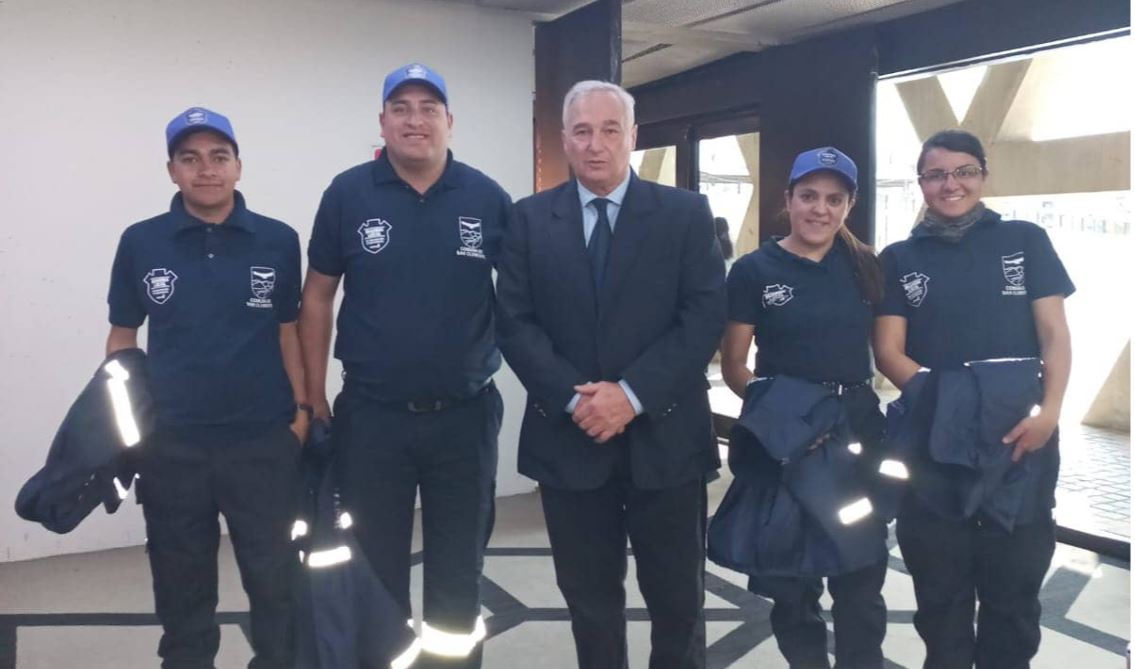
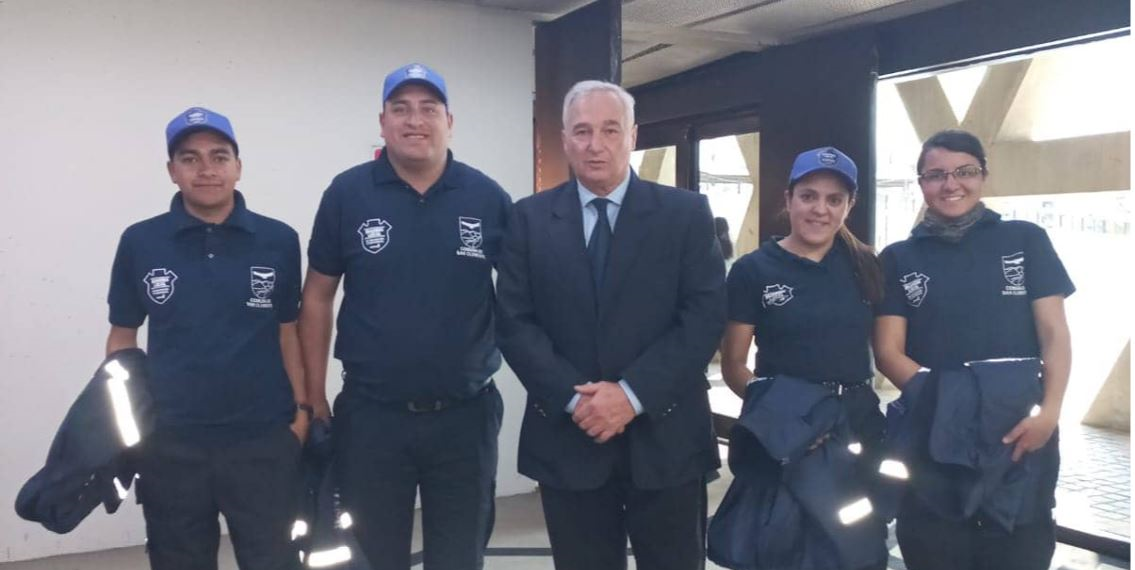
iconografia

diff --git a/front/src/app/components/home/home.html b/front/src/app/components/home/home.html
@@ -1,8 +1,31 @@
 <div class="text-center mt-8">
-  <h1 class="text-3xl font-bold mb-4">Bienvenido a nuestra tienda</h1>
+  <h1 class="text-cyan-600 text-4xl font-bold mb-4">Bienvenido a <span class="text-cyan-800 font-extrabold">LIQUIDADORA RGW</span></h1>
 
-  <p class="text-lg">Explora nuestros productos y encuentra lo que necesitas.</p>
+  <p class="text-lg mb-4">Explora nuestros productos y encuentra lo mejor en <span class="text-cyan-600 font-bold">indumentaria laboral y de seguridad.</span></p>
 
-  <app-carousel [slides]="slides"></app-carousel>
+  <div class="bg-sky-100 py-1 mt-8"> 
+    <app-carousel [slides]="slides"></app-carousel>
+  </div>
+
+  <div class="flex justify-evenly mt-10 mb-10 gap-4 ">
+    <div class="flex flex-col items-center justify-start">
+      <div class="p-5 size-40 bg-sky-300 rounded-full">
+        <img class="w-full h-full " src="icono1.svg" alt="">
+      </div>
+      <div class="text-center text-2xl uppercase">Indumentaria</div>
+    </div>
+    <div class="flex flex-col items-center justify-start">
+      <div class="p-5 size-40 bg-sky-300 rounded-full">
+        <img class="w-full h-full " src="icono2.svg" alt="">
+      </div>
+      <div class="text-center text-2xl uppercase">Calzado</div>
+    </div>
+    <div class="flex flex-col items-center justify-start">
+      <div class="p-5 size-40 bg-sky-300 rounded-full">
+        <img class="w-full h-full " src="icono3.svg" alt="">
+      </div>
+      <div class="text-center text-2xl uppercase">Elementos de <br>Seguridad</div>
+    </div>
+  </div>
   
 </div>

diff --git a/front/src/app/components/carousel/carousel.html b/front/src/app/components/carousel/carousel.html
@@ -1,5 +1,5 @@
 <div
-  class="relative w-full max-w-3xl mx-auto overflow-hidden rounded-2xl shadow-lg select-none"
+  class="relative w-full max-w-6xl mx-auto overflow-hidden rounded-2xl shadow-lg select-none"
   (mouseenter)="onMouseEnter()"
   (mouseleave)="onMouseLeave()"
   (mousedown)="onDragStart($event)"
@@ -19,7 +19,7 @@
         <img
           [src]="slide.imageUrl"
           [alt]="slide.alt || slide.title || 'slide'"
-          class="w-full h-64 sm:h-80 md:h-96 object-cover"
+          class="w-full h-64 sm:h-80 md:h-120 object-cover"
           draggable="false"
         />
         @if (slide.title || slide.caption) {
@@ -67,7 +67,7 @@
   </button>
 
   <!-- Dots -->
-  <div class="absolute bottom-3 left-1/2 -translate-x-1/2 flex gap-2">
+  <div class="absolute bottom-3 left-1/2 -translate-x-1/2 flex gap-2 bg-black p-5 rounded-sm">
     @for (slide of slides; track slide.id; let i = $index) {
       <button
         type="button"

diff --git a/front/src/index.html b/front/src/index.html
@@ -5,7 +5,7 @@
   <title>LIQUIDADORA RGW</title>
   <base href="/">
   <meta name="viewport" content="width=device-width, initial-scale=1">
-  <link rel="icon" type="image/x-icon" href="favicon.ico">
+  <link rel="icon" type="image/x-icon" href="icono.png">
 </head>
 <body>
   <app-root></app-root>
